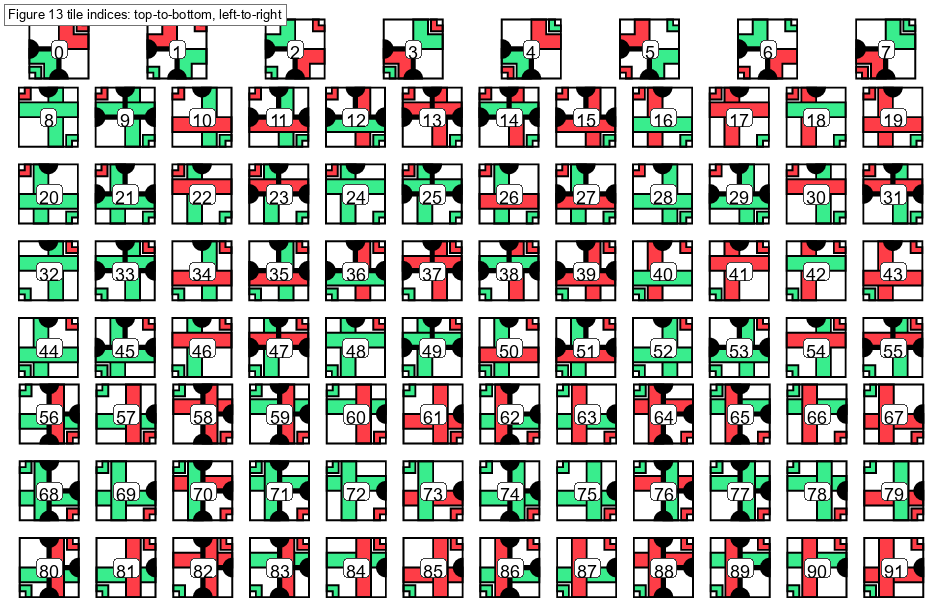
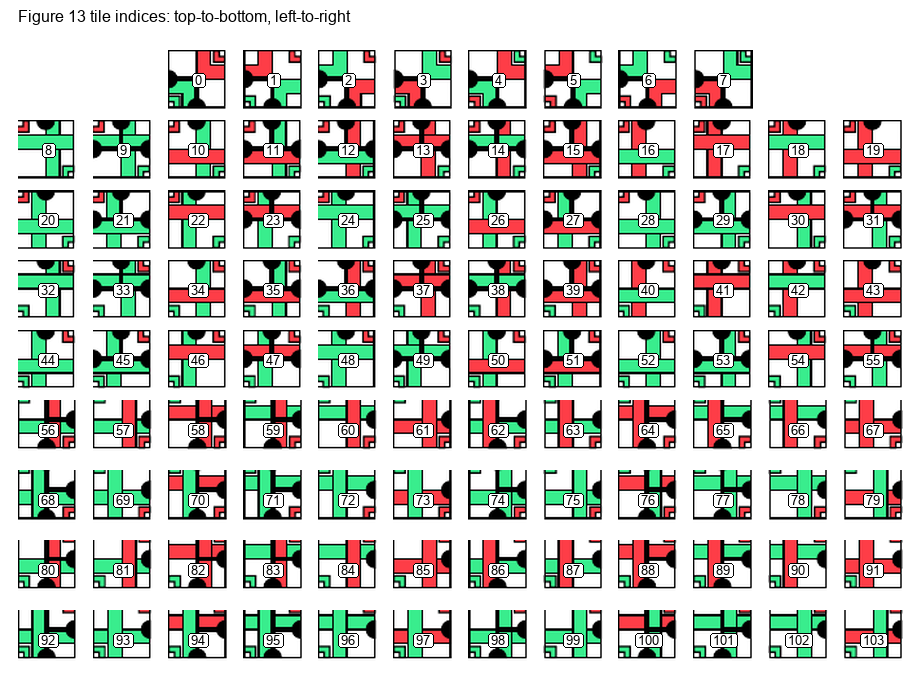
Restore the 104-tile Ollinger alphabet

diff --git a/plan.md b/plan.md
@@ -822,7 +822,7 @@ construction. The immediate scaffold task is now:
 1. Replace the visually assigned edge identifiers in
    `OllingerRobinsonFigure13.lean` by a compositional boundary encoding derived
    from the human-audited L1/L2/L3 component rows.
-2. Decode the Figure 16 expansion of each of the 92 parent tiles to a concrete
+2. Decode the Figure 16 expansion of each of the 104 parent tiles to a concrete
    `2 x 2` block of child tile indices.
 3. Mechanically verify that every expansion block is valid and that parent-edge
    matching is equivalent to matching along the expanded block boundary.
@@ -847,11 +847,22 @@ substitution. These facts are recorded by
 `componentTripleCounts_eq`, `oneStepClosedUniqueChildrenBool_eq_true`, and
 `oneStepClosedUnderSubstitutionBool_eq_true`.
 
-This 104-triple alphabet is a clean formal candidate, but it should not silently
-replace the paper's displayed 92-tile set. Before assigning corrected Wang
-edges, determine whether the 12 additional triples expose a Figure 13
-transcription error, an omitted identification/recoloring convention, or a
-genuine enlargement of the paper's tile alphabet.
+The source resolves the apparent discrepancy: the original Figure 13 page has
+104 tiles, arranged as an eight-tile first row followed by eight twelve-tile
+rows. The indexed crop and TSV stopped after 92, omitting the final twelve-tile
+row. Ollinger's own [2009 slides](https://www.univ-orleans.fr/lifo/membres/Nicolas.Ollinger/talks/2009/04/lirmm.pdf)
+independently describe the construction as "an aperiodic tile set of 104
+tiles". The twelve omitted rows are exactly the twelve triples found by
+substitution closure.
+
+`LeanWang.OllingerRobinson104` now defines the corrected 104-triple alphabet
+without migrating the large `Fin 92` diagnostic development. It proves the
+alphabet has length 104 and no duplicates, records the exact twelve omitted
+rows, and exposes a total executable child decoder
+`Closed104.childIndex : Fin 104 -> Quadrant -> Fin 104` with uniqueness and
+matching theorems. The corrected scaffold route should build on this module;
+the old `Fin 92` route remains useful only for auditing how the omission was
+detected.
 
 The theorem surface now also has the more Robinson-shaped
 `L2C1RobinsonSection7BoardFreeLineTranslatedBoxData` /

diff --git a/README.md b/README.md
@@ -336,18 +336,25 @@ final route: the direct Figure 18 site-square problem is a diagnostic surface,
 while the proof-facing scaffold target is the Section 7 checked-stack plus
 valid-translated-box/layer-patch route.
 
-The standalone raw Figure 13 positive-board and Figure 16 source/raw-boundary
-surfaces are diagnostics, not final assumptions: the raw Figure 13 macro tiles
-do not tile even a `2 x 2` square, and the over-strong Figure 16
-source/raw-boundary diagnostic has no adjacent two-cell witnesses in the current
-transcription.  `LeanWang.OllingerRobinsonFigure13Data` now also proves the
-global contradiction wrappers
+The standalone legacy Figure 13 positive-board and Figure 16
+source/raw-boundary surfaces are diagnostics, not final assumptions: the old
+Figure 13 transcription omitted the final 12 tiles from the paper's 104-tile
+set, so that 92-tile list does not tile even a `2 x 2` square. The over-strong
+Figure 16 source/raw-boundary diagnostic consequently has no adjacent two-cell
+witnesses. `LeanWang.OllingerRobinsonFigure13Data` proves the resulting legacy
+contradiction wrappers
 `not_hasCanonicalFigure16SourceRawBoundaryCheckedLevelData`,
 `not_hasCanonicalFigure16SourceRawBoundaryLevelChecks`,
 `not_hasCanonicalCheckedFigure16SourceRawBoundaryMacroSquaresBool`, and
 `not_hasCanonicalFigure16SourceRawBoundaryBoardLevelChecks`: any all-level
 canonical source/raw-boundary route would imply positive-board raw Figure 13
 square tilings, contradicting the checked finite obstruction.
+
+`LeanWang.OllingerRobinson104` is the corrected route. It closes the human
+L1/L2/L3 rows under Figure 16, recovers exactly the omitted final row, and
+defines a total unique substitution on the resulting 104 component triples.
+The older `Fin 92` modules remain available to audit how the omission was
+detected, but should not be used for the concrete scaffold proof.
 
 There is no direct `PartrecToTM2`/TM2-to-table reduction in the current route.
 TM2 remains only as Mathlib's intermediate evaluator on the way to TM0. The